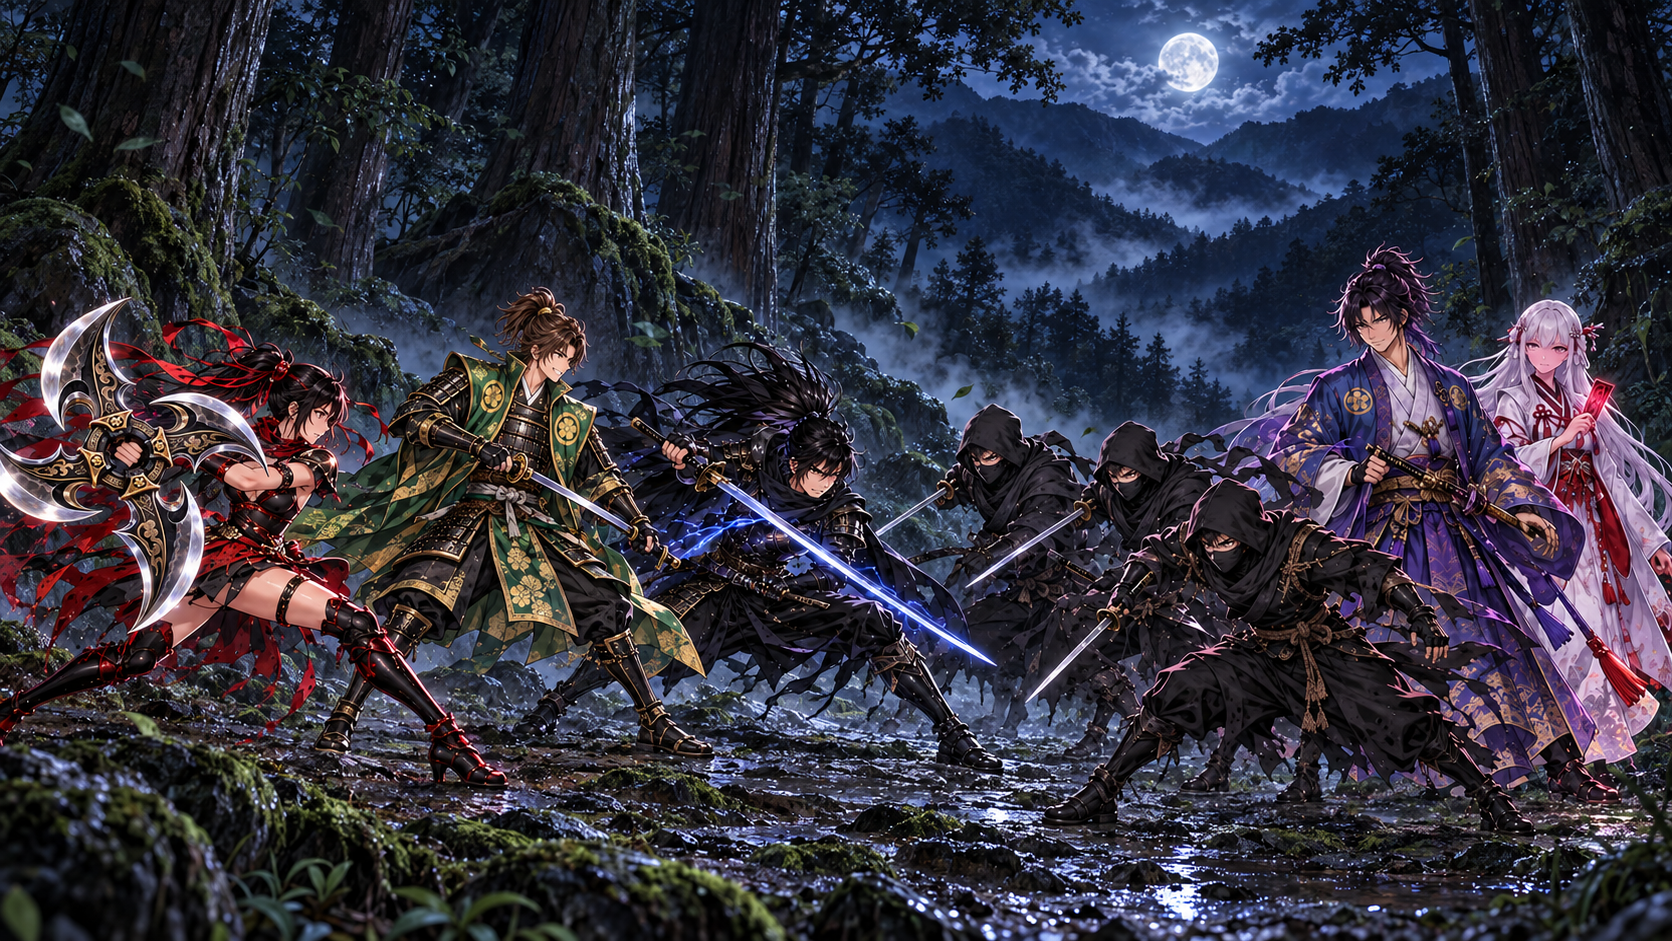
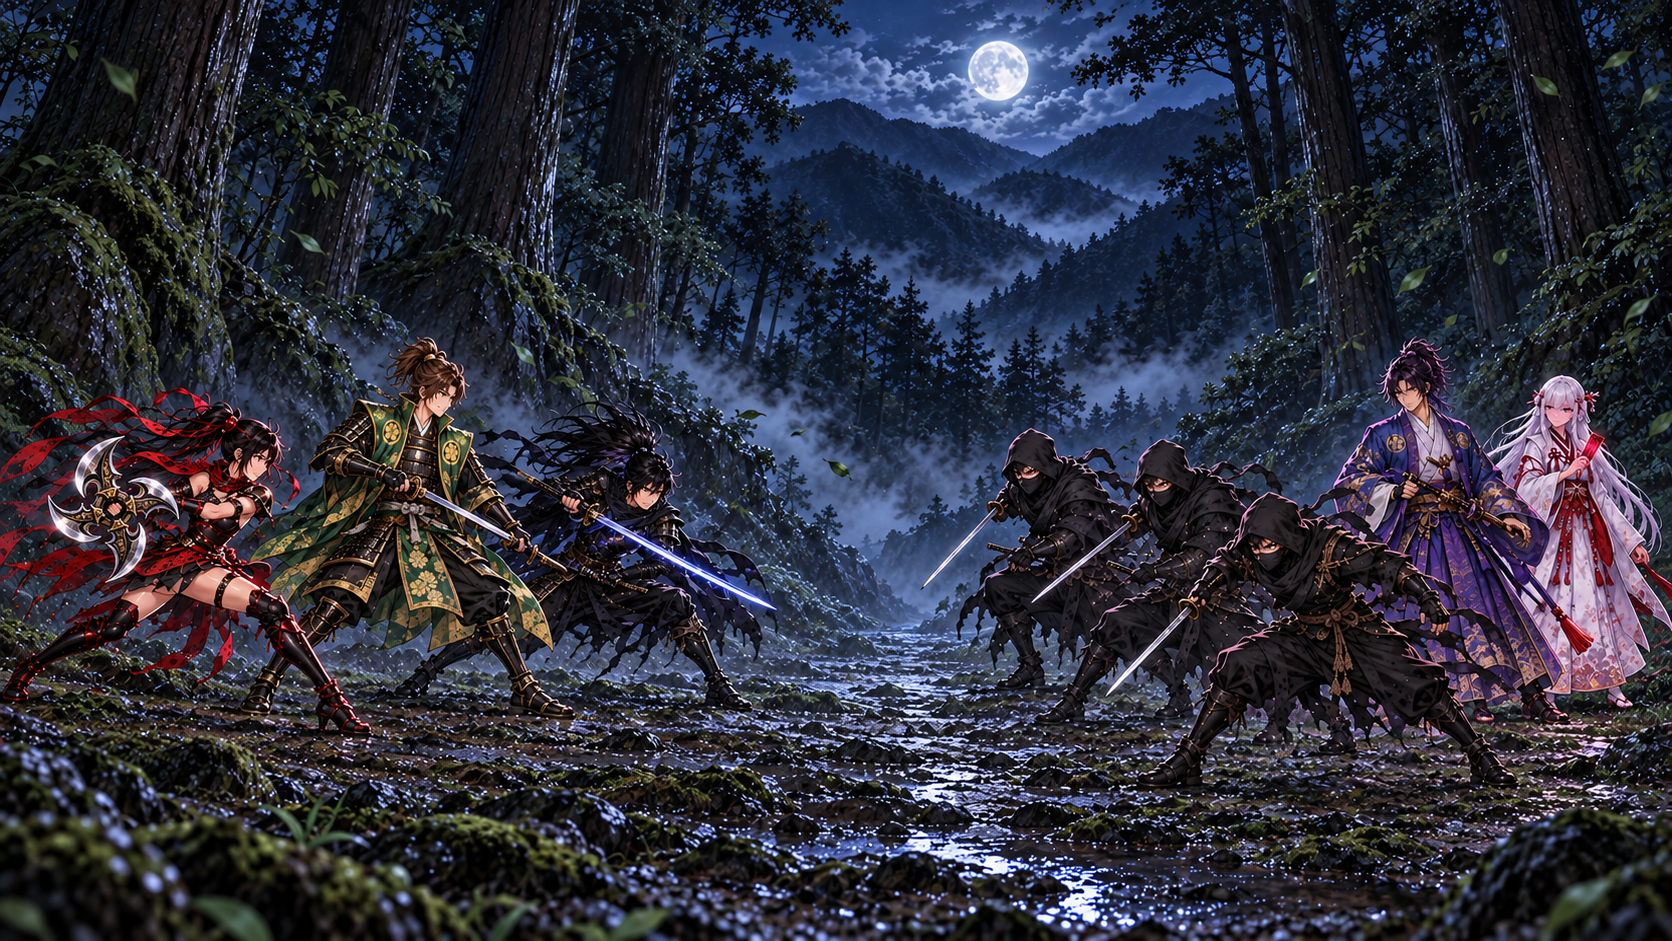
Normalize battle character scale and keep factions within their halves

diff --git a/reference/battle-effects.js b/reference/battle-effects.js
@@ -1,8 +1,8 @@
 // Adapted from battle/effect-target-v9.html: original textures and canvas effects.
 (()=>{
 
-const C=document.querySelector('#fx'),ctx=C.getContext('2d'),status=document.querySelector('#status');const images={};const urls={thunder:'../assets/battle-v9/thunder.png',fire:'../assets/battle-v9/fire.png',halo:'../assets/battle-v9/halo.png',particle:'../assets/battle-v9/particle.png'};for(const [k,u] of Object.entries(urls)){let im=new Image();im.src=u;images[k]=im}const targets={frontline:{x:1000,y:570},hanzo:{x:770,y:570}};let effect=null,showPoints=false;const clamp=(v,a,b)=>Math.max(a,Math.min(b,v));function run(kind){const now=performance.now();effect={kind,start:now};status.textContent=kind==='heal'?'おふうの回復':kind==='fire'?'黒炎':kind==='slash'?'虎徹の斬撃':'半蔵の雷忍術';}
+const C=document.querySelector('#fx'),ctx=C.getContext('2d'),status=document.querySelector('#status');const images={};const urls={thunder:'../assets/battle-v9/thunder.png',fire:'../assets/battle-v9/fire.png',halo:'../assets/battle-v9/halo.png',particle:'../assets/battle-v9/particle.png'};for(const [k,u] of Object.entries(urls)){let im=new Image();im.src=u;images[k]=im}const targets={frontline:{x:1030,y:550},hanzo:{x:640,y:550}};let effect=null,showPoints=false;const clamp=(v,a,b)=>Math.max(a,Math.min(b,v));function run(kind){const now=performance.now();effect={kind,start:now};status.textContent=kind==='heal'?'おふうの回復':kind==='fire'?'黒炎':kind==='slash'?'虎徹の斬撃':'半蔵の雷忍術';}
 function sprite(k,x,y,w,h,alpha=1,rotation=0){const im=images[k];if(!im.complete||!im.naturalWidth)return;ctx.save();ctx.globalAlpha=alpha;ctx.translate(x,y);ctx.rotate(rotation);ctx.drawImage(im,-w/2,-h/2,w,h);ctx.restore()}
-function frame(now){ctx.clearRect(0,0,C.width,C.height);if(showPoints){ctx.font='bold 23px sans-serif';for(const [k,p] of Object.entries(targets)){ctx.strokeStyle='#ffe28b';ctx.lineWidth=3;ctx.beginPath();ctx.arc(p.x,p.y,22,0,Math.PI*2);ctx.stroke();ctx.fillStyle='#ffe28b';ctx.fillText(k,p.x+26,p.y-24)}}if(effect){const t=(now-effect.start)/1000;const kind=effect.kind;const hit=kind==='fire'||kind==='heal'?targets.hanzo:targets.frontline;const prep=.20,hitAt=.43;const flash=clamp((t-prep)/.2,0,1);if(t<1.55){if(kind==='thunder'){for(let i=0;i<5;i++){const p=(i+.4)*.21;sprite('thunder',hit.x+(i-2)*22,hit.y-80+Math.sin(t*22+i)*14,65,270,clamp(1-t/1.15,0,1),Math.sin(t*12+i)*.22)}sprite('halo',hit.x,hit.y,220,220,.45*flash)}else if(kind==='slash'){ctx.save();ctx.translate(hit.x,hit.y);ctx.rotate(-.6);ctx.strokeStyle='rgba(240,252,255,'+clamp(1-t/1.0,0,1)+')';ctx.lineWidth=18;ctx.shadowBlur=25;ctx.shadowColor='#c9e7ff';ctx.beginPath();ctx.moveTo(-145,-90);ctx.quadraticCurveTo(0,10,145,90);ctx.stroke();ctx.restore();sprite('particle',hit.x,hit.y,210,210,clamp(1-t,0,1))}else if(kind==='fire'){for(let i=0;i<6;i++){const dx=Math.sin(i*3+t*5)*55;const dy=(i%3)*28;sprite('fire',hit.x+dx,hit.y+dy-55-t*45,135,180,clamp(1-t/1.1,0,1),i*.2)} }else if(kind==='heal'){sprite('halo',hit.x,hit.y,220+t*60,220+t*60,clamp(1-t/1.25,0,1));for(let i=0;i<8;i++)sprite('particle',hit.x+Math.sin(i*2)*80,hit.y+75-(t*110+i*12)%220,40,40,clamp(1-t/1.5,0,1))}if(t>hitAt){const num='';ctx.save();ctx.font='bold 58px system-ui';ctx.textAlign='center';ctx.lineWidth=6;ctx.strokeStyle='#141620';ctx.fillStyle=kind==='heal'?'#5aff9a':'#ffffff';ctx.globalAlpha=clamp((1.5-t)/.55,0,1);ctx.strokeText(num,hit.x,hit.y-110-(t-hitAt)*75);ctx.fillText(num,hit.x,hit.y-110-(t-hitAt)*75);ctx.restore()}}else{effect=null;status.textContent='準備完了'}}requestAnimationFrame(frame)}requestAnimationFrame(frame);
+function frame(now){ctx.clearRect(0,0,C.width,C.height);ctx.save();ctx.beginPath();ctx.rect(effect&&(effect.kind==='fire'||effect.kind==='heal')?0:C.width/2,0,C.width/2,C.height);ctx.clip();if(showPoints){ctx.font='bold 23px sans-serif';for(const [k,p] of Object.entries(targets)){ctx.strokeStyle='#ffe28b';ctx.lineWidth=3;ctx.beginPath();ctx.arc(p.x,p.y,22,0,Math.PI*2);ctx.stroke();ctx.fillStyle='#ffe28b';ctx.fillText(k,p.x+26,p.y-24)}}if(effect){const t=(now-effect.start)/1000;const kind=effect.kind;const hit=kind==='fire'||kind==='heal'?targets.hanzo:targets.frontline;const prep=.20,hitAt=.43;const flash=clamp((t-prep)/.2,0,1);if(t<1.55){if(kind==='thunder'){for(let i=0;i<5;i++){const p=(i+.4)*.21;sprite('thunder',hit.x+(i-2)*22,hit.y-80+Math.sin(t*22+i)*14,65,270,clamp(1-t/1.15,0,1),Math.sin(t*12+i)*.22)}sprite('halo',hit.x,hit.y,220,220,.45*flash)}else if(kind==='slash'){ctx.save();ctx.translate(hit.x,hit.y);ctx.rotate(-.6);ctx.strokeStyle='rgba(240,252,255,'+clamp(1-t/1.0,0,1)+')';ctx.lineWidth=18;ctx.shadowBlur=25;ctx.shadowColor='#c9e7ff';ctx.beginPath();ctx.moveTo(-145,-90);ctx.quadraticCurveTo(0,10,145,90);ctx.stroke();ctx.restore();sprite('particle',hit.x,hit.y,210,210,clamp(1-t,0,1))}else if(kind==='fire'){for(let i=0;i<6;i++){const dx=Math.sin(i*3+t*5)*55;const dy=(i%3)*28;sprite('fire',hit.x+dx,hit.y+dy-55-t*45,135,180,clamp(1-t/1.1,0,1),i*.2)} }else if(kind==='heal'){sprite('halo',hit.x,hit.y,220+t*60,220+t*60,clamp(1-t/1.25,0,1));for(let i=0;i<8;i++)sprite('particle',hit.x+Math.sin(i*2)*80,hit.y+75-(t*110+i*12)%220,40,40,clamp(1-t/1.5,0,1))}if(t>hitAt){const num='';ctx.save();ctx.font='bold 58px system-ui';ctx.textAlign='center';ctx.lineWidth=6;ctx.strokeStyle='#141620';ctx.fillStyle=kind==='heal'?'#5aff9a':'#ffffff';ctx.globalAlpha=clamp((1.5-t)/.55,0,1);ctx.strokeText(num,hit.x,hit.y-110-(t-hitAt)*75);ctx.fillText(num,hit.x,hit.y-110-(t-hitAt)*75);ctx.restore()}}else{effect=null;status.textContent='準備完了'}}ctx.restore();requestAnimationFrame(frame)}requestAnimationFrame(frame);
 window.akatsukiReferenceEffects={run,clear(){effect=null;ctx.clearRect(0,0,C.width,C.height);status.textContent="準備完了"}};
 })();

diff --git a/reference/battle-reference.html b/reference/battle-reference.html
@@ -11,7 +11,8 @@
     <header class="masthead"><div class="brand">暁<span>ノ</span>刃<small>A K A T S U K I</small></div><div class="chapter"><small>第一章　伊賀越え</small><h1>山道の襲撃</h1></div><span class="reference-label">配置・演出の参考画面</span></header>
     <section class="scene" aria-label="横スクロール戦闘の参考画面。狭い画面では左右にスクロールできます" tabindex="0">
       <div class="world">
-        <img class="stage-image" src="../assets/battle-reference/stage.png" alt="伊賀の山中での戦い。左から巨大手裏剣・飛燕を構えるあやめ、家康、半蔵。敵側は忍び3人、左馬之助と後方の雪姫。">
+        <img class="stage-image" src="../assets/battle-reference/stage.png" alt="伊賀の山中での戦い。画面中央を境に、左半分はあやめ・家康・半蔵、右半分は忍び3人・左馬之助・後方の雪姫。飛燕は前版の約半分、人物の縮尺を統一。">
+        <div class="deployment-center" aria-hidden="true"></div>
         <span class="actor ayame" data-name="あやめ">あやめ</span>
         <span class="actor ieyasu" data-name="家康">家康</span>
         <span class="actor hanzo" data-name="半蔵">半蔵</span>
@@ -30,7 +31,7 @@
       <aside class="chapter-panel"><p>第一章　伊賀越え</p><span id="status" role="status">準備完了</span><div class="ornament">◆ ━━━━━ ◆</div><p class="purpose">刃を交えながら、<br>会話で物語を見せる。</p><div class="utilities"><button id="showLog" type="button">▤ LOG</button><button id="showTemplate" type="button">元の画面</button></div></aside>
     </section>
   </main>
-  <p class="note">battle収録絵を元に、背景を伊賀の山中へ変更した参考画面です。味方は左からあやめ・家康・半蔵。あやめの巨大手裏剣「飛燕」は収録の武器データを参照しています。狭い画面では戦場を左右に動かせます。</p>
+  <p class="note">中央の細いガイド線を境に、味方は左半分、敵は右半分に配置。人物の縮尺をそろえ、飛燕を前版の約半分に調整しています。狭い画面では戦場を左右に動かせます。</p>
   <dialog id="logDialog"><h2>会話ログ</h2><div id="logEntries"></div><button type="button" data-close>閉じる</button></dialog>
   <dialog id="templateDialog"><h2>いただいた戦闘テンプレート（v9）</h2><img src="../assets/battle-v9/stage.png" alt="元の戦闘テンプレート。上部に戦場、下部にコマンドと顔アイコン付き会話欄"><button type="button" data-close>閉じる</button></dialog>
   <script src="battle-effects.js"></script>

diff --git a/reference/battle-reference.css b/reference/battle-reference.css
@@ -17,16 +17,17 @@ button:focus-visible,.scene:focus-visible{outline:2px solid #b5efff;outline-offs
 .world{position:relative;min-width:1180px;width:100%;height:100%;min-height:100%;isolation:isolate;background:#101722}
 
 .stage-image{display:block;width:100%;height:100%;object-fit:cover}
+.deployment-center{position:absolute;left:50%;top:5%;bottom:10%;width:0;border-left:1px dashed #e6d0a766;pointer-events:none}
 
 .actor{position:absolute;bottom:6%;transform:translateX(-50%);padding:4px 12px;color:#fff1d7;background:linear-gradient(90deg,transparent,#07101cbb,transparent);font-size:18px;letter-spacing:.1em;text-shadow:0 2px 5px #000;white-space:nowrap}
 
-.ayame{left:16%}
-.ieyasu{left:30%}
-.hanzo{left:46%}
-.ninja-one{left:60%}
-.ninja-two{left:68%}
-.ninja-three{left:74%}
-.samanosuke{left:84%}
+.ayame{left:12%}
+.ieyasu{left:25%}
+.hanzo{left:38%}
+.ninja-one{left:62%}
+.ninja-two{left:70%}
+.ninja-three{left:79%}
+.samanosuke{left:86%}
 .yukihime{left:94%;bottom:14%}
 .rear-label{display:block;color:#d9cbaf;font-size:11px;text-align:center}
 

diff --git a/reference/SOURCES.md b/reference/SOURCES.md
@@ -4,9 +4,10 @@
 - 比較用テンプレート: `assets/battle-v9/stage.png` (`battle/effect-target-v9.html` から参照)。
 - 今回の参考絵: `assets/battle-reference/stage.png`。上記原本から作った参考絵を画像編集し、背景を伊賀の山中に変更。味方を左から「あやめ・家康・半蔵」、敵を「忍び3人、左馬之助、その後方の雪姫」に配置しています。原本そのものではありません。個別キャラのスプライトには分離していません。
 - あやめの巨大手裏剣「飛燕」: 既存の武器カード `assets/004_c60caa07d.png` の、中央の環と四枚の湾曲した刃・黒金の装飾をデザイン参照。
+- 縮尺・配置の修正: 飛燕の直径を前版の約半分へ。左馬之助と雪姫は遠近に合う大きさに縮小。人物の頭身と縮尺をそろえ、味方（武器を含む）は中央より左、敵（武器を含む）は中央より右に収めています。参考画面の中央ガイド線は横幅の50%に表示します。
 - 家康: 既存の `assets/011_bb37a6d74.webp` の顔、緑と金の装束をデザイン参照。
 - 左馬之助・雪姫・忍びのデザイン参照: `assets/012_f81fdb814.webp`、`016_e2b459444.webp`、`006_39739c7e4.png`。
-- 斬撃・雷撃: `battle/effect-target-v9.html` のCanvas実装を `battle-effects.js` に再利用。命中位置と表示ラベルのみ変更し、ダメージ数値は表示しません。雷・粒子テクスチャは `assets/battle-v9/` の原物を参照します。
+- 斬撃・雷撃: `battle/effect-target-v9.html` のCanvas実装を `battle-effects.js` に再利用。命中位置と表示ラベルを調整し、効果は被弾する側の半面内にクリップしています。ダメージ数値は表示しません。雷・粒子テクスチャは `assets/battle-v9/` の原物を参照します。
 - 会話欄の顔画像: 既存 `assets/` の半蔵・あやめ・左馬之助・雪姫を参照。
 
 会話5行は配置・演出確認用。本編の本文や戦闘接続は変更していません。

diff --git a/README.md b/README.md
@@ -6,7 +6,7 @@
 
 今回の配置確認は `reference/battle-reference.html` を開いてください。画像だけなら `reference/battle-reference.png` で確認できます。ZIPは全体を解凍し、`assets` フォルダーを含む構成を保ってください。
 
-`battle/playable.html` の戦闘絵を元に、背景を伊賀の山中へ変更。味方は左からあやめ・家康・半蔵、敵は忍び3人 → 左馬之助 → 後方の雪姫という配置です。あやめは既存の武器カードを参照した巨大手裏剣「飛燕」を構えています。`battle/effect-target-v9.html` の斬撃処理と `assets/battle-v9/` の雷・粒子画像を再利用しています。「会話を進める」「斬り合いの演出」「雷撃の演出」「最初の配置に戻す」を試せます。「元の画面」でいただいたv9の原本を比較表示します。今回の参考画面は本編に接続していません。台詞は演出確認用です。
+`battle/playable.html` の戦闘絵を元に、背景を伊賀の山中へ変更。味方は左からあやめ・家康・半蔵、敵は忍び3人 → 左馬之助 → 後方の雪姫という配置です。人物の縮尺を統一し、左馬之助と雪姫を縮小。飛燕の直径は前版の約半分にしています。中央のガイド線（横幅50%）を境に、味方と武器は左半分、敵と武器は右半分に収まる配置です。`battle/effect-target-v9.html` の斬撃処理と `assets/battle-v9/` の雷・粒子画像を再利用しています。「会話を進める」「斬り合いの演出」「雷撃の演出」「最初の配置に戻す」を試せます。「元の画面」でいただいたv9の原本を比較表示します。今回の参考画面は本編に接続していません。台詞は演出確認用です。
 
 ## 起動
 
